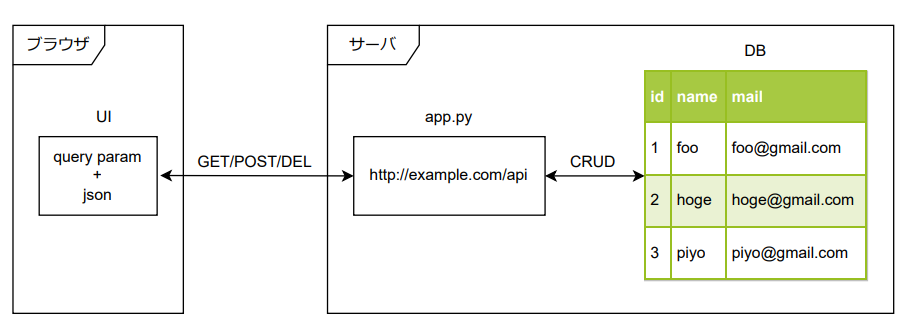
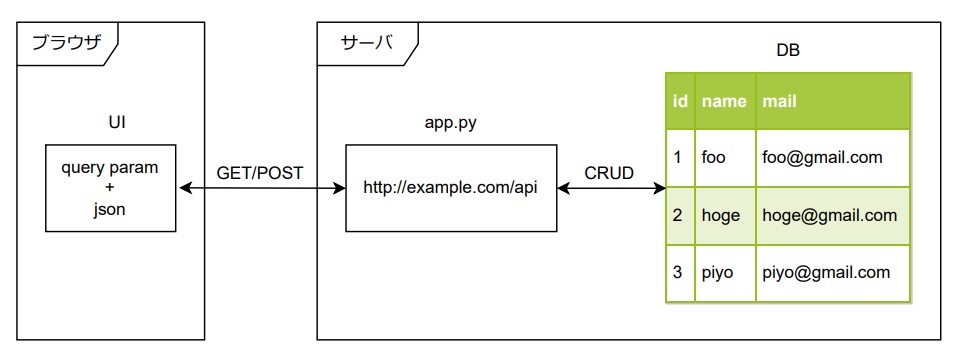
add

Changed region(s): [[0.0, 0.0599, 1.0, 0.9581], [0.0917, 0.3293, 0.1528, 0.3593]]

diff --git a/README.md b/README.md
@@ -1,18 +1,18 @@
 # システム開発能力の腕試し
 
-目的：UI＋API＋DBの基本的なシステムを作成できるかを確認する<br>
+目的１：UI＋API＋DBの基本的なシステムを作成できるかを確認する<br>
+目的２：経験のないフレームワークでも自力で調べて作成できるかを確認する<br>
+目的３：IPやポートなど最低限のネットワーク設定の知識があるかを確認する<br>
 
 ---
 ## 0.言語とフレームワーク
 
-- フレームワーク => (Flask,React)
-- 言語 => (Python,JavaScript,TypeScript)
-
-バックエンドはFlaskでアプリケーションを作成する。<br>
-フロントエンドはReactでアプリケーションを作成する。<br>
+- バックエンド => Flask(Python)
+- フロントエンド => React(JavaScript,TypeScript)
 
 ---
 ## 1.WEBアプリケーション作成
+
 - Reactでフロントエンドアプリケーションを開発できる
 - HTTP通信でデータを更新・取得できる
 
@@ -32,26 +32,29 @@
 
 ---
 ## 2.REST APIの作成
+
 - APIのエンドポイント(URI)を設計できる
 - GET,POST,DELETEなどのリクエストに対して適切な処理を行うことができる
 
 APIは[Flask](https://flask.palletsprojects.com/en/2.2.x/)を使用して作成する。<br>
-ファイルは分割しても良いがメイン処理(GET,POST,DELETE)はリポジトリ内の"app.py"に記述する。<br>
+ファイルは分割しても良いがメイン処理(GET,POST)はリポジトリ内の"app.py"に記述する。<br>
 以下にURIの例を示す。<br>
-ユーザー情報の取得 => (GET) http://127.0.0.1/v1/users?id=all<br>
-ユーザー情報の追加 => (POST) http://127.0.0.1/v1/users?type=add<br>
-ユーザー情報の変更 => (POST) http://127.0.0.1/v1/users?type=mod<br>
-ユーザー情報の削除 => (POST) http://127.0.0.1/v1/users?type=del<br>
+ユーザー情報の取得 => (GET) http://52.199.224.236:5000/v1/users?id=all<br>
+ユーザー情報の追加 => (POST) http://52.199.224.236:5000/v1/users?type=add + {"name":"hoge","mail":"hoge@gmail.com"}<br>
+ユーザー情報の変更 => (POST) http://52.199.224.236:5000/v1/users?type=mod + {"id":25,"name":"piyopiyo"}<br>
+ユーザー情報の削除 => (POST) http://52.199.224.236:5000/v1/users?type=del + {"id":25}<br>
 
 ![sample-02](image/sample-02.png "sample-02")
 
 ---
 ## 3.DBの操作
+
 - DBに対してORMでCRUD処理(Create,Read,Update,Delete)を実行できる
 
 ORMは[SQLAlchemy](https://www.sqlalchemy.org/)を使用する。<br>
 SQLAlchemyを使用するならDBの種類は問わない。<br>
 以下に作成したテーブルのSQL(PostgreSQL)例を示す。<br>
+
 ```
 CREATE TABLE IF NOT EXISTS public.users
 (
@@ -65,6 +68,7 @@ CREATE TABLE IF NOT EXISTS public.users
 
 ---
 ## 4.WEBサーバの構築
+
 - サーバに作成したアプリケーションをデプロイし、サービスを開始できる
 
 AWSやHerokuなどのレンタルサーバを使ってアプリケーションを公開する。<br>
